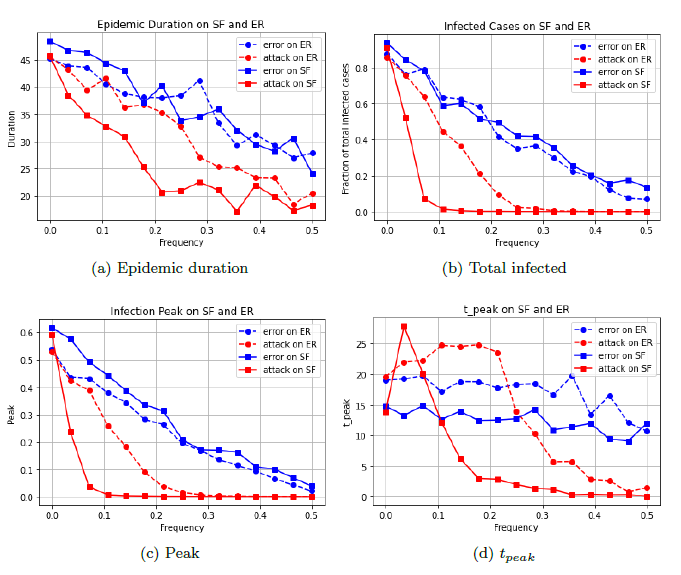
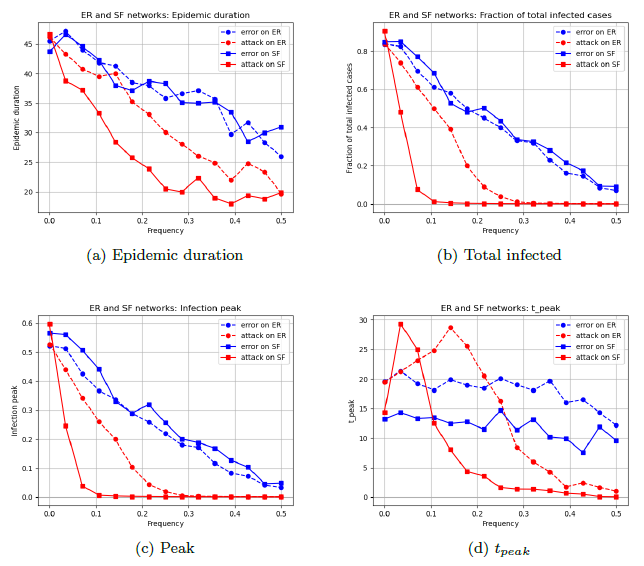
change images and the color in the plot_functions.py

Changed region(s): [[0.0, 0.0, 0.9938, 0.4806], [0.0, 0.5106, 0.9938, 0.9912]]

diff --git a/network_code/plot_functions.py b/network_code/plot_functions.py
@@ -97,6 +97,7 @@ def make_plot(freq, data_error, data_attack, ylabel, title, **kwargs):
         x_data = [freq, freq],
         y_data = [data_error, data_attack],
         labels = ['error','attack'],
+        colors = ['blue', 'red'],
         markers = ['o','o'],
         linestyles = ['-','-'],
         ylabel = ylabel, xlabel='Frequency',
